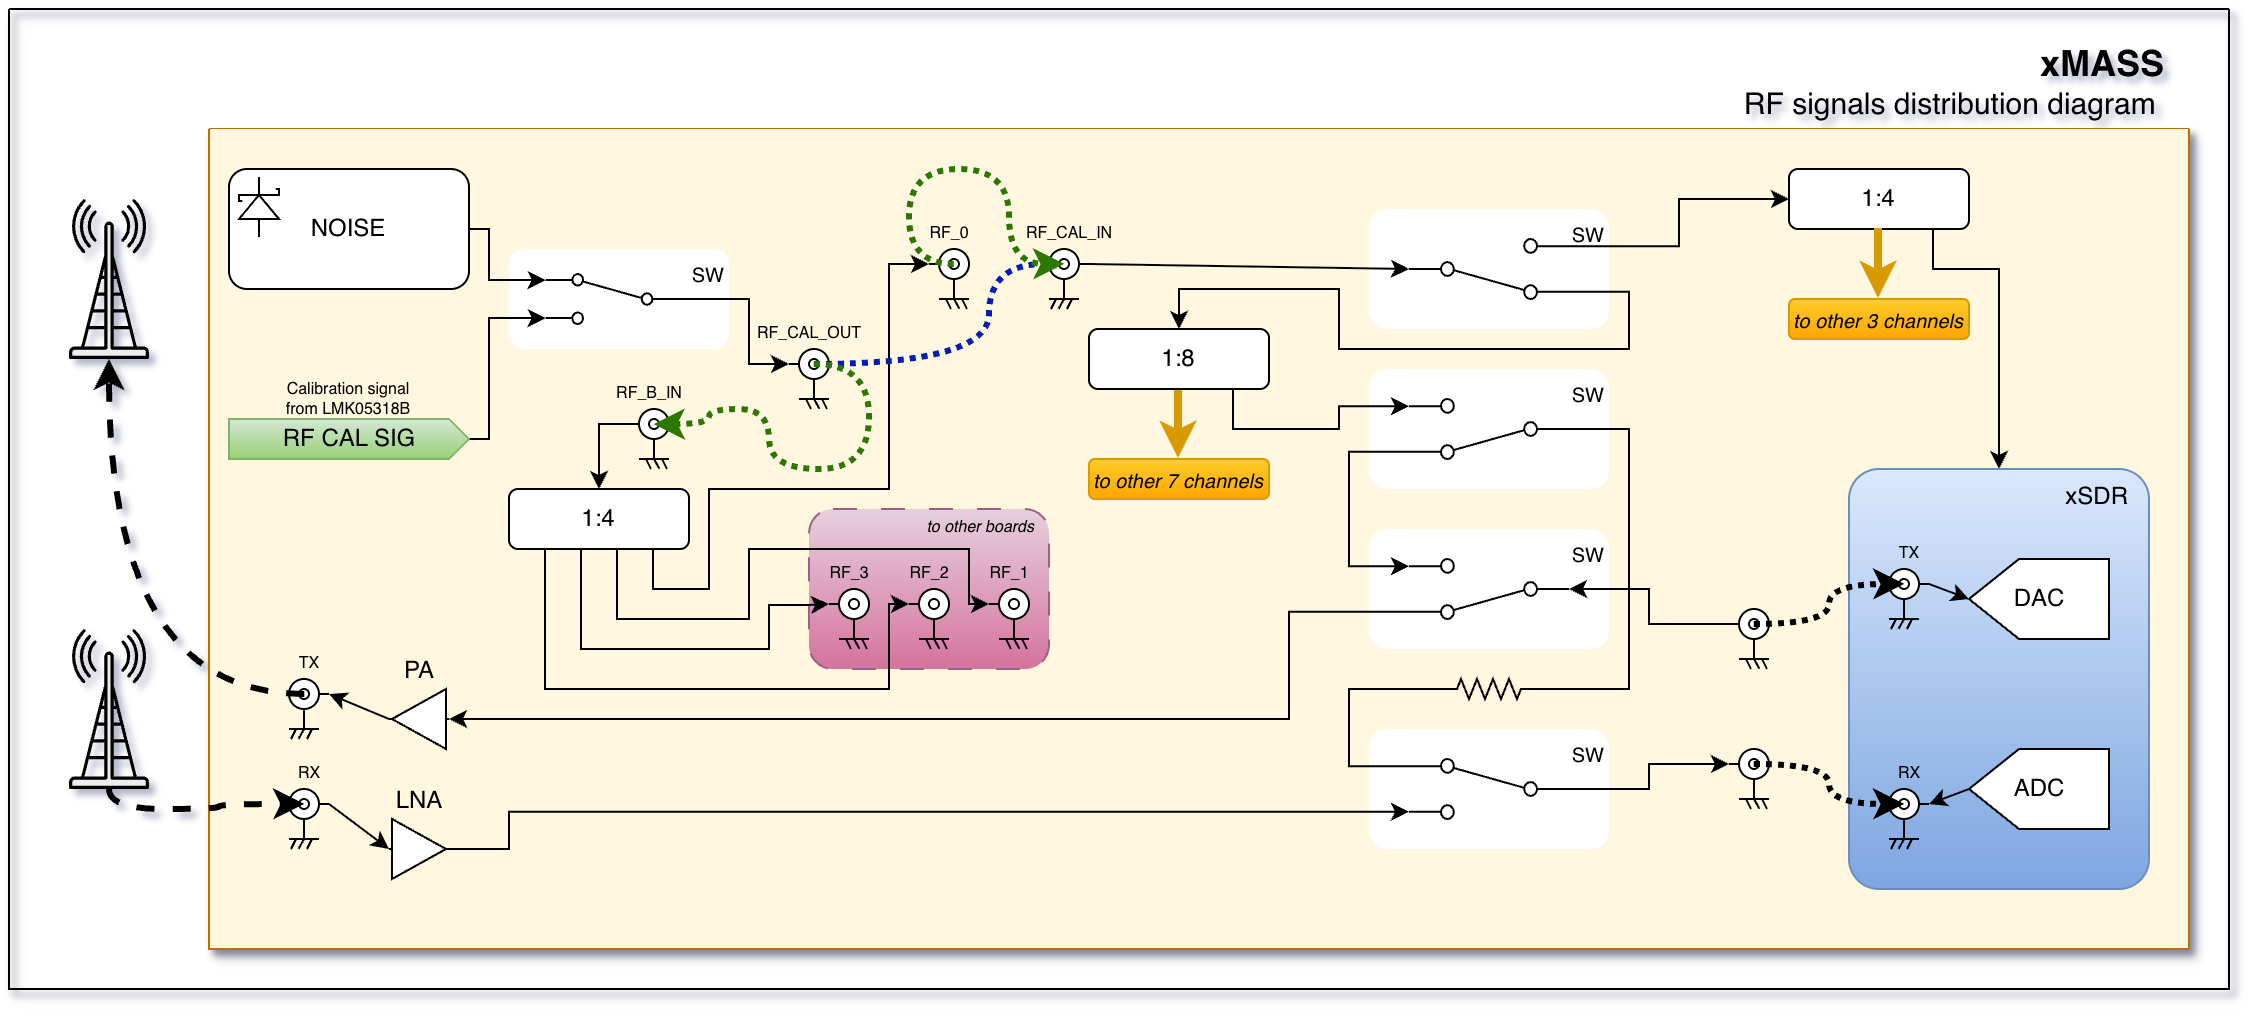
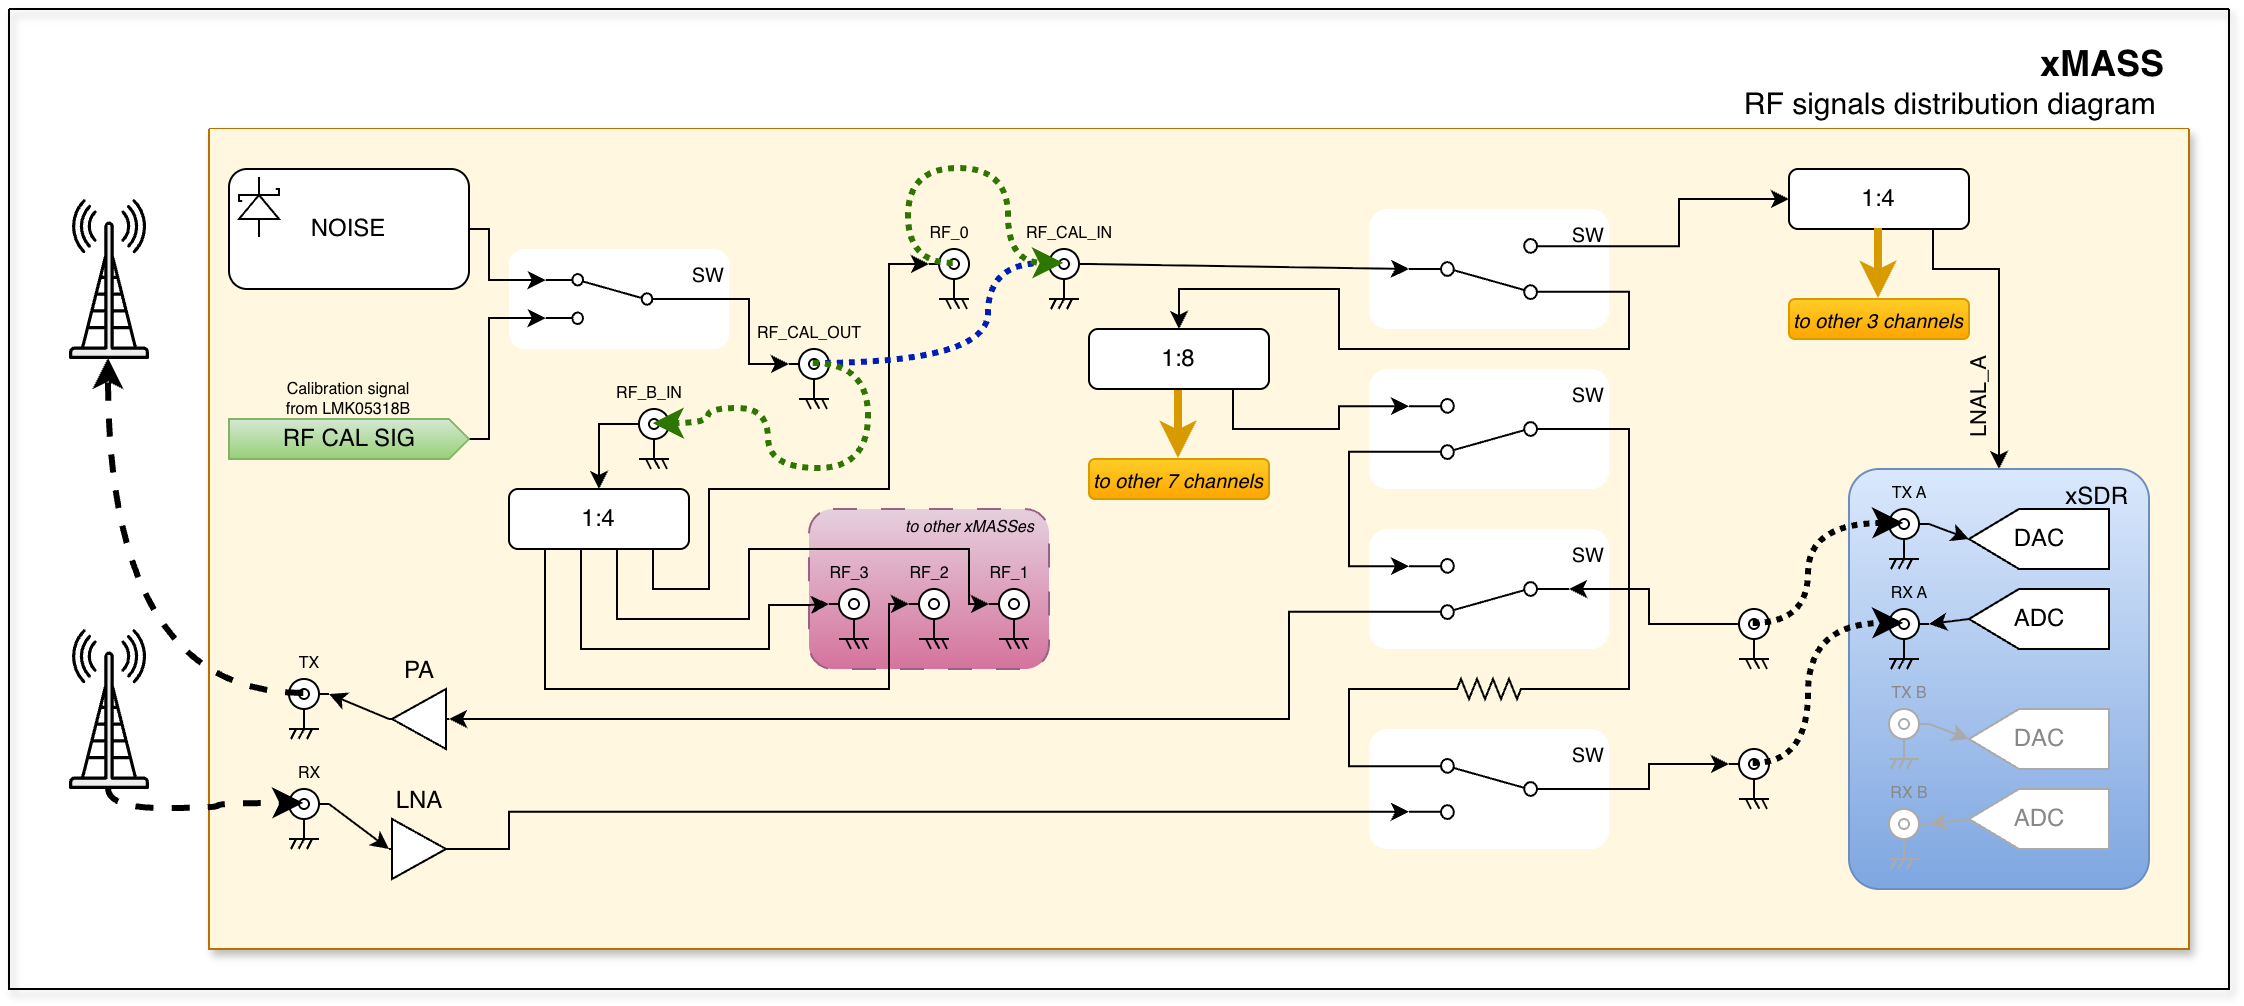
Typos and fixes.

Changed region(s): [[0.0, 0.0, 0.9982, 0.9861], [0.0936, 0.3698, 0.2184, 0.4622], [0.0312, 0.493, 0.0624, 0.5547]]

diff --git a/source/hardware/xmass.rst b/source/hardware/xmass.rst
@@ -190,7 +190,8 @@ The possible RF paths are:
 * Calibration path: NOISE or CAL signal to xSDR module for RX calibration.
 * Loopback path: TX from xSDR module to RX of the same channel for loopback testing.
 
-In addition, the NOISE/CAL signal can be routed to the first channel of each xSDR module directly through the M.2 socket. This avoids using the RF frontend, resulting in more accurate calibration.
+In addition, the NOISE/CAL signal can be routed to the first channel(LNAL_A) of each xSDR module directly through the M.2 socket.
+This avoids using the RF frontend, resulting in more accurate calibration.
 
 
 Software
